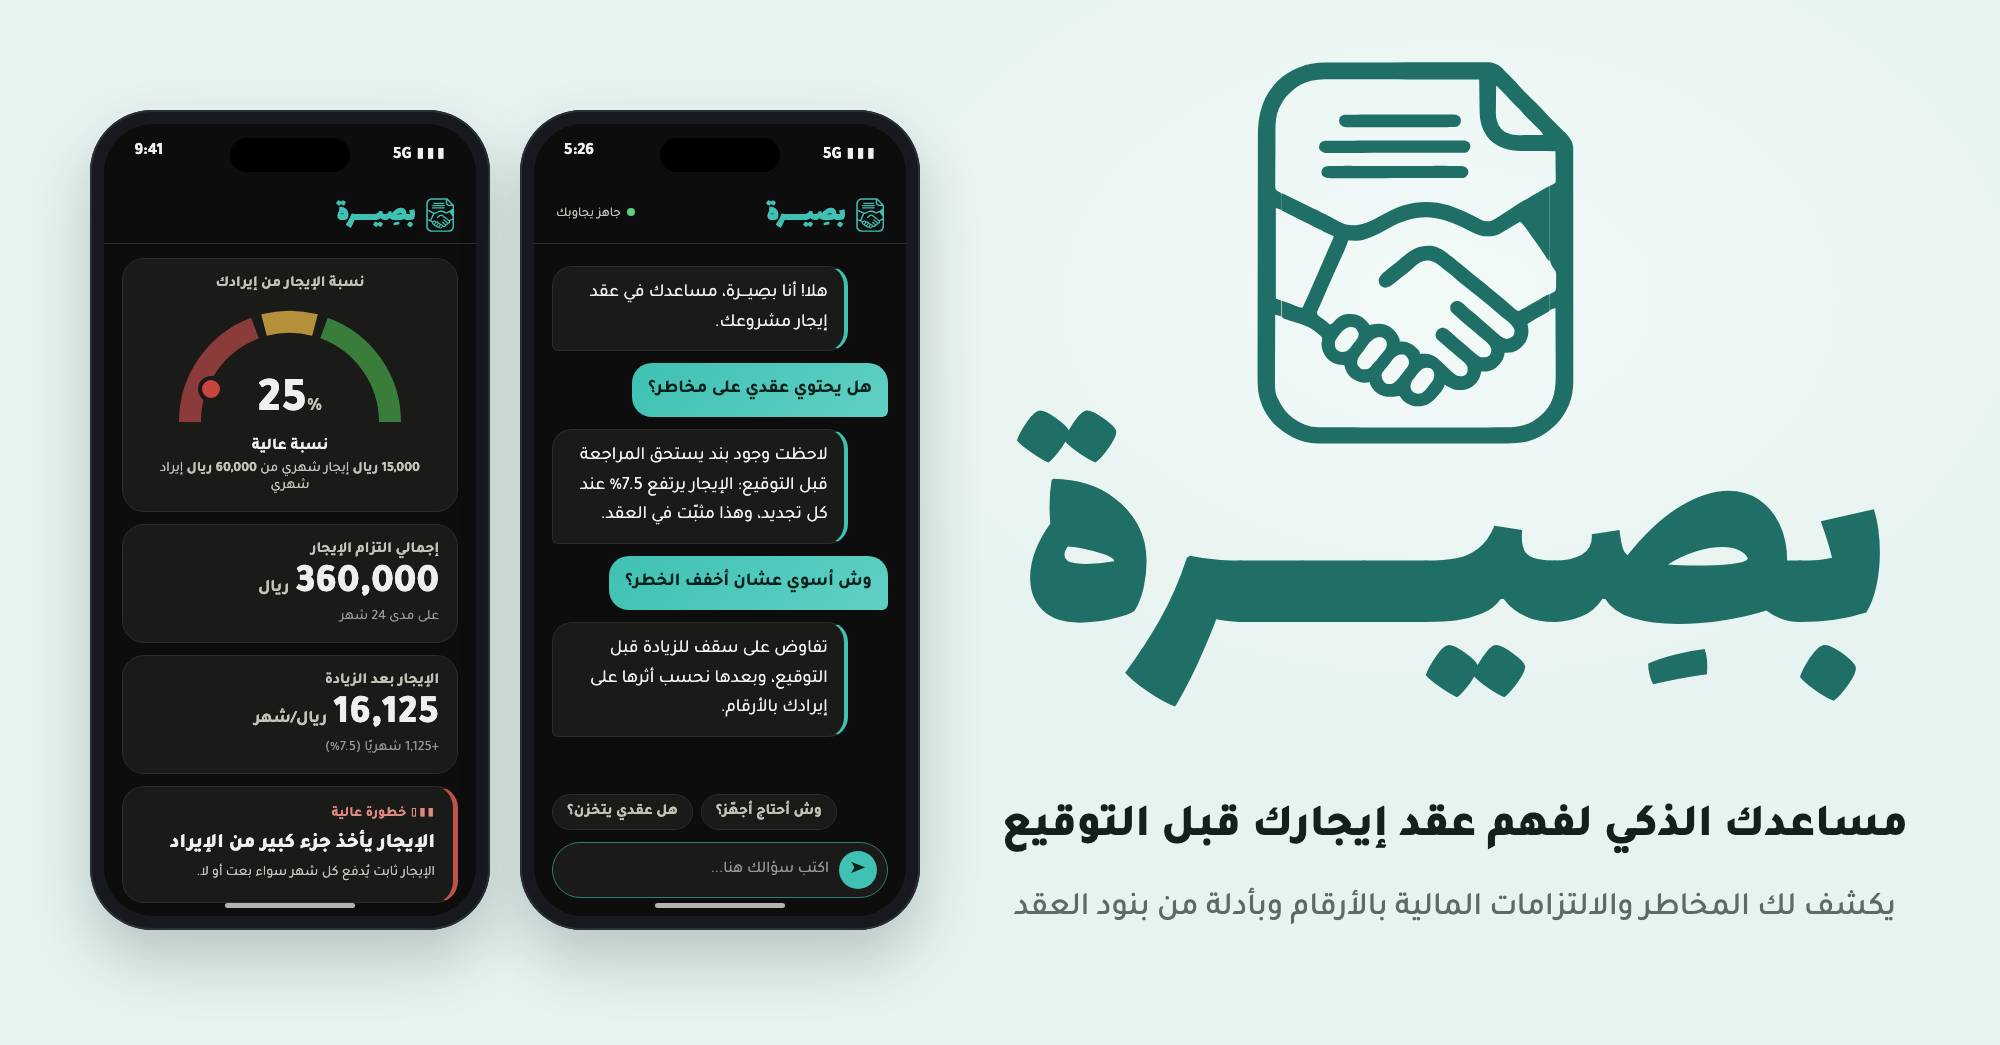
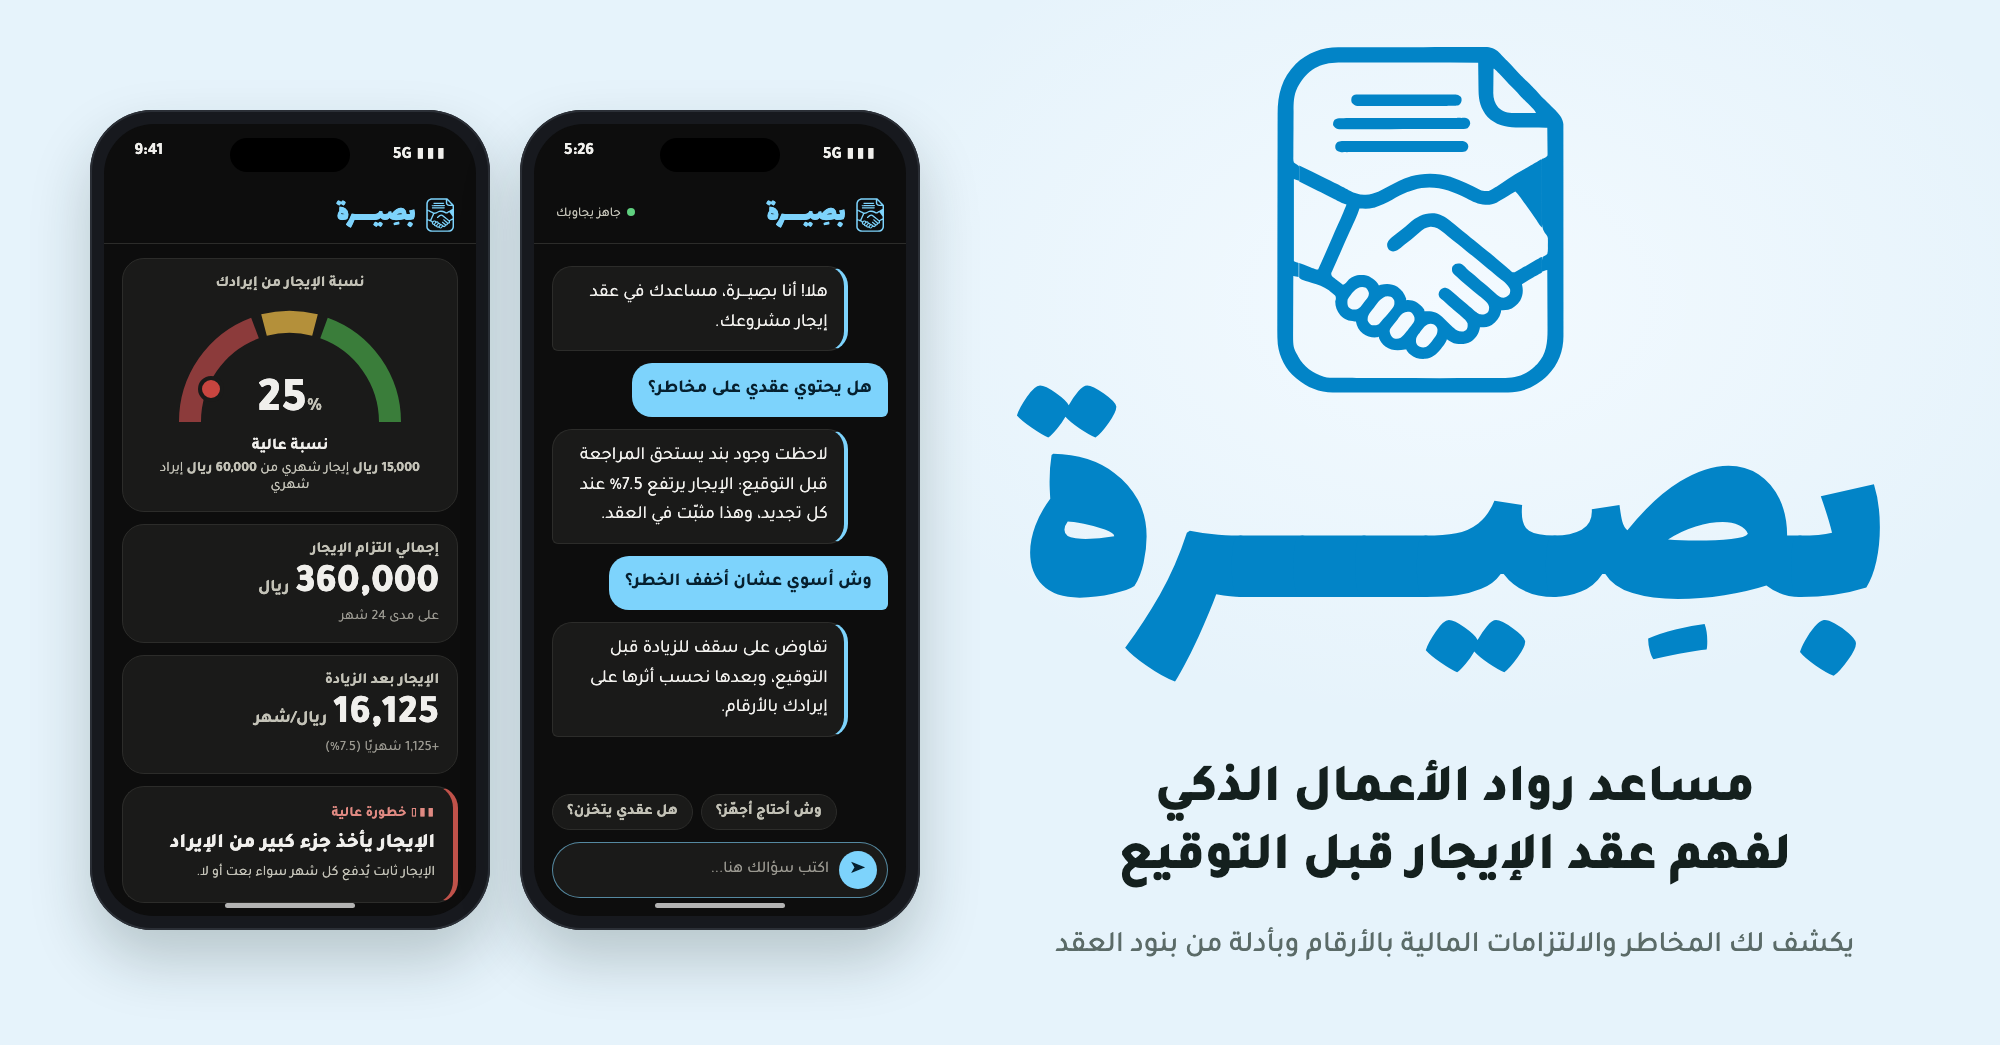
اعتماد اللون السماوي هوية للموقع (فاتح #0284c7 / غامق #7dd3fc) وتحديث البوستر

diff --git a/docs/poster/basira-poster.html b/docs/poster/basira-poster.html
@@ -3,17 +3,17 @@
 <title>بوستر بصِيـــرة</title>
 <link href="https://fonts.googleapis.com/css2?family=Tajawal:wght@400;500;700;800&family=Lalezar&display=swap" rel="stylesheet">
 <style>
-:root { --teal:#1f6f66; --ink:#14201e; --mint:#e7f3f0; --bg:#0d0d0d; --surface:#1a1a19; --surface2:#222221; --line:#2c2c2a; --ink-d:#f0efec; --ink2:#c3c2b7; --ink3:#9a9890; --brand:#3fc1b3; --onbrand:#06201d; }
+:root { --teal:#0284c7; --ink:#14201e; --mint:#e6f3fb; --glow:#f3faff; --bg:#0d0d0d; --surface:#1a1a19; --surface2:#222221; --line:#2c2c2a; --ink-d:#f0efec; --ink2:#c3c2b7; --ink3:#9a9890; --brand:#7dd3fc; --onbrand:#06202f; }
 * { box-sizing: border-box; margin:0; padding:0; }
 html, body { width: 2000px; height: 1045px; background: var(--mint); font-family: "Tajawal", sans-serif; overflow: hidden; }
-.poster { position: relative; width: 2000px; height: 1045px; background: radial-gradient(900px 600px at 1450px 300px, #f2faf8, transparent 70%), var(--mint); }
+.poster { position: relative; width: 2000px; height: 1045px; background: radial-gradient(900px 600px at 1450px 300px, var(--glow), transparent 70%), var(--mint); }
 
 /* ---- الجهة اليمنى: الهوية ---- */
-.logo { position:absolute; left: 1255px; top: 60px; width: 320px; height: auto; color: var(--teal); }
+.logo { position:absolute; left: 1275px; top: 45px; width: 290px; height: auto; color: var(--teal); }
 .logo-s { color: var(--brand); height: 34px; width: auto; }
-.word { position:absolute; right: 70px; left: 980px; top: 385px; text-align: center; font-family: "Lalezar", sans-serif; font-size: 330px; line-height: 1.05; color: var(--teal); letter-spacing: 0; }
-.tag { position:absolute; right: 70px; left: 980px; top: 800px; text-align:center; white-space: nowrap; font-weight: 800; font-size: 45px; color: var(--ink); line-height: 1.3; }
-.sub { position:absolute; right: 70px; left: 980px; top: 885px; text-align:center; white-space: nowrap; font-weight: 500; font-size: 32px; color: #5b6b68; line-height: 1.5; }
+.word { position:absolute; right: 70px; left: 980px; top: 360px; text-align: center; font-family: "Lalezar", sans-serif; font-size: 330px; line-height: 1.05; color: var(--teal); letter-spacing: 0; }
+.tag { position:absolute; right: 70px; left: 980px; top: 760px; text-align:center; font-weight: 800; font-size: 52px; color: var(--ink); line-height: 1.3; }
+.sub { position:absolute; right: 70px; left: 980px; top: 925px; text-align:center; white-space: nowrap; font-weight: 500; font-size: 29px; color: #5b6b68; line-height: 1.5; }
 
 /* ---- الجوالات ---- */
 .phone { position:absolute; width: 400px; height: 820px; border-radius: 62px; background: #17191e; padding: 14px; box-shadow: 0 30px 60px rgba(20,40,38,.22), 0 0 0 2px #2b2f36 inset; }
@@ -43,10 +43,10 @@ html, body { width: 2000px; height: 1045px; background: var(--mint); font-family
 .msgs { flex:1; display:flex; flex-direction: column; gap: 12px; padding-top: 8px; }
 .m { max-width: 88%; padding: 12px 16px; border-radius: 20px; font-size: 18px; line-height: 1.65; }
 .m.bot { align-self: flex-end; background: var(--surface); border: 1px solid var(--line); border-inline-start: 4px solid var(--brand); border-end-end-radius: 6px; }
-.m.user { align-self: flex-start; background: linear-gradient(135deg, #3fc1b3, #5fd0c3); color: var(--onbrand); font-weight: 700; border-end-start-radius: 6px; }
+.m.user { align-self: flex-start; background: var(--brand); color: var(--onbrand); font-weight: 700; border-end-start-radius: 6px; }
 .chips { display:flex; gap:8px; flex-wrap: wrap; justify-content: flex-end; }
 .chips span { border: 1px solid var(--line); background: var(--surface); border-radius: 999px; padding: 8px 14px; font-size: 15px; font-weight: 700; color: var(--ink2); }
-.comp { display:flex; align-items:center; gap: 10px; border: 1.5px solid #2f7f77; border-radius: 999px; background: var(--surface); padding: 8px 10px 8px 14px; }
+.comp { display:flex; align-items:center; gap: 10px; border: 1.5px solid color-mix(in srgb, var(--brand) 60%, transparent); border-radius: 999px; background: var(--surface); padding: 8px 10px 8px 14px; }
 .comp .in { flex:1; font-size: 16px; color: var(--ink3); }
 .comp .snd { width: 38px; height: 38px; border-radius: 50%; background: var(--brand); display:grid; place-items:center; color: var(--onbrand); }
 .dot { width:8px; height:8px; border-radius:50%; background:#5fd07f; display:inline-block; margin-inline-end:6px; }
@@ -75,7 +75,7 @@ html, body { width: 2000px; height: 1045px; background: var(--mint); font-family
 </svg>
 
   <div class="word">بصِيـــرة</div>
-  <div class="tag">مساعدك الذكي لفهم عقد إيجارك قبل التوقيع</div>
+  <div class="tag">مساعد رواد الأعمال الذكي<br>لفهم عقد الإيجار قبل التوقيع</div>
   <div class="sub">يكشف لك المخاطر والالتزامات المالية بالأرقام وبأدلة من بنود العقد</div>
 
   <!-- جوال 1: التقرير -->

diff --git a/app/static/styles.css b/app/static/styles.css
@@ -1,6 +1,6 @@
 /* ============ بصيرة: نظام التصميم ============ */
 /* ===== لوحة الألوان: Sample 1 (الافتراضية) =====
-   هوية: أخضر مزرق (teal) #0e6b63 على أسطح محايدة دافئة. ألوان الحالة من دليل الرسوم: أحمر #d03b3b، كهرماني #fab219، أخضر #0ca30c.
+   هوية: أزرق سماوي (sky) #0284c7 على أسطح محايدة دافئة. ألوان الحالة من دليل الرسوم: أحمر #d03b3b، كهرماني #fab219، أخضر #0ca30c.
    عشان نضيف لوحات ثانية بدون ما نلمس هذي: نكتب كتلة [data-palette="sample-2"] تعيد تعريف نفس المتغيرات (--brand، --surface...)
    ونغيّر السمة data-palette على وسم html. */
 :root, :root[data-palette="sample-1"] {
@@ -9,7 +9,7 @@
   --bg: #f9f9f7; --surface: #fcfcfb; --surface-2: #f2f2ee; --ink: #0b0b0b; --ink-2: #52514e; --ink-3: #6f6d68;
   --line: #e1e0d9; --line-strong: #c3c2b7;
   /* هوية بصيرة */
-  --brand: #0e6b63; --brand-600: #0a554f; --brand-050: #e4f2f0; --on-brand: #ffffff;
+  --brand: #0284c7; --brand-600: #0369a1; --brand-050: #e0f2fe; --on-brand: #ffffff;
   /* ألوان الحالة (ثابتة، تُعرض دايماً مع أيقونة وكلمة) */
   --crit: #d03b3b; --warn: #fab219; --good: #0ca30c;
   --shadow: 0 1px 2px rgba(11,11,11,.05), 0 10px 30px rgba(11,11,11,.06);
@@ -20,7 +20,7 @@
   :root:not([data-theme="light"]) {
     --bg: #0d0d0d; --surface: #1a1a19; --surface-2: #222221; --ink: #f0efec; --ink-2: #c3c2b7; --ink-3: #9a9890;
     --line: #2c2c2a; --line-strong: #383835;
-    --brand: #3fc1b3; --brand-600: #5fd0c3; --brand-050: #12302d; --on-brand: #06201d;
+    --brand: #7dd3fc; --brand-600: #bae6fd; --brand-050: #0c2a3d; --on-brand: #06202f;
     --shadow: 0 1px 2px rgba(0,0,0,.5), 0 10px 30px rgba(0,0,0,.4);
   }
 }
@@ -28,7 +28,7 @@
 :root[data-theme="dark"] {
   --bg: #0d0d0d; --surface: #1a1a19; --surface-2: #222221; --ink: #f0efec; --ink-2: #c3c2b7; --ink-3: #9a9890;
   --line: #2c2c2a; --line-strong: #383835;
-  --brand: #3fc1b3; --brand-600: #5fd0c3; --brand-050: #12302d; --on-brand: #06201d;
+  --brand: #7dd3fc; --brand-600: #bae6fd; --brand-050: #0c2a3d; --on-brand: #06202f;
   --shadow: 0 1px 2px rgba(0,0,0,.5), 0 10px 30px rgba(0,0,0,.4);
 }
 * { box-sizing: border-box; }

diff --git a/docs/poster/build.py b/docs/poster/build.py
@@ -10,17 +10,17 @@ html = """<!doctype html>
 <title>بوستر بصِيـــرة</title>
 <link href="https://fonts.googleapis.com/css2?family=Tajawal:wght@400;500;700;800&family=Lalezar&display=swap" rel="stylesheet">
 <style>
-:root { --teal:#1f6f66; --ink:#14201e; --mint:#e7f3f0; --bg:#0d0d0d; --surface:#1a1a19; --surface2:#222221; --line:#2c2c2a; --ink-d:#f0efec; --ink2:#c3c2b7; --ink3:#9a9890; --brand:#3fc1b3; --onbrand:#06201d; }
+:root { --teal:#1f6f66; --ink:#14201e; --mint:#e7f3f0; --glow:#f2faf8; --bg:#0d0d0d; --surface:#1a1a19; --surface2:#222221; --line:#2c2c2a; --ink-d:#f0efec; --ink2:#c3c2b7; --ink3:#9a9890; --brand:#3fc1b3; --onbrand:#06201d; }
 * { box-sizing: border-box; margin:0; padding:0; }
 html, body { width: 2000px; height: 1045px; background: var(--mint); font-family: "Tajawal", sans-serif; overflow: hidden; }
-.poster { position: relative; width: 2000px; height: 1045px; background: radial-gradient(900px 600px at 1450px 300px, #f2faf8, transparent 70%), var(--mint); }
+.poster { position: relative; width: 2000px; height: 1045px; background: radial-gradient(900px 600px at 1450px 300px, var(--glow), transparent 70%), var(--mint); }
 
 /* ---- الجهة اليمنى: الهوية ---- */
-.logo { position:absolute; left: 1255px; top: 60px; width: 320px; height: auto; color: var(--teal); }
+.logo { position:absolute; left: 1275px; top: 45px; width: 290px; height: auto; color: var(--teal); }
 .logo-s { color: var(--brand); height: 34px; width: auto; }
-.word { position:absolute; right: 70px; left: 980px; top: 385px; text-align: center; font-family: "Lalezar", sans-serif; font-size: 330px; line-height: 1.05; color: var(--teal); letter-spacing: 0; }
-.tag { position:absolute; right: 70px; left: 980px; top: 800px; text-align:center; white-space: nowrap; font-weight: 800; font-size: 45px; color: var(--ink); line-height: 1.3; }
-.sub { position:absolute; right: 70px; left: 980px; top: 885px; text-align:center; white-space: nowrap; font-weight: 500; font-size: 32px; color: #5b6b68; line-height: 1.5; }
+.word { position:absolute; right: 70px; left: 980px; top: 360px; text-align: center; font-family: "Lalezar", sans-serif; font-size: 330px; line-height: 1.05; color: var(--teal); letter-spacing: 0; }
+.tag { position:absolute; right: 70px; left: 980px; top: 760px; text-align:center; font-weight: 800; font-size: 52px; color: var(--ink); line-height: 1.3; }
+.sub { position:absolute; right: 70px; left: 980px; top: 925px; text-align:center; white-space: nowrap; font-weight: 500; font-size: 29px; color: #5b6b68; line-height: 1.5; }
 
 /* ---- الجوالات ---- */
 .phone { position:absolute; width: 400px; height: 820px; border-radius: 62px; background: #17191e; padding: 14px; box-shadow: 0 30px 60px rgba(20,40,38,.22), 0 0 0 2px #2b2f36 inset; }
@@ -50,10 +50,10 @@ html, body { width: 2000px; height: 1045px; background: var(--mint); font-family
 .msgs { flex:1; display:flex; flex-direction: column; gap: 12px; padding-top: 8px; }
 .m { max-width: 88%; padding: 12px 16px; border-radius: 20px; font-size: 18px; line-height: 1.65; }
 .m.bot { align-self: flex-end; background: var(--surface); border: 1px solid var(--line); border-inline-start: 4px solid var(--brand); border-end-end-radius: 6px; }
-.m.user { align-self: flex-start; background: linear-gradient(135deg, #3fc1b3, #5fd0c3); color: var(--onbrand); font-weight: 700; border-end-start-radius: 6px; }
+.m.user { align-self: flex-start; background: var(--brand); color: var(--onbrand); font-weight: 700; border-end-start-radius: 6px; }
 .chips { display:flex; gap:8px; flex-wrap: wrap; justify-content: flex-end; }
 .chips span { border: 1px solid var(--line); background: var(--surface); border-radius: 999px; padding: 8px 14px; font-size: 15px; font-weight: 700; color: var(--ink2); }
-.comp { display:flex; align-items:center; gap: 10px; border: 1.5px solid #2f7f77; border-radius: 999px; background: var(--surface); padding: 8px 10px 8px 14px; }
+.comp { display:flex; align-items:center; gap: 10px; border: 1.5px solid color-mix(in srgb, var(--brand) 60%, transparent); border-radius: 999px; background: var(--surface); padding: 8px 10px 8px 14px; }
 .comp .in { flex:1; font-size: 16px; color: var(--ink3); }
 .comp .snd { width: 38px; height: 38px; border-radius: 50%; background: var(--brand); display:grid; place-items:center; color: var(--onbrand); }
 .dot { width:8px; height:8px; border-radius:50%; background:#5fd07f; display:inline-block; margin-inline-end:6px; }
@@ -64,7 +64,7 @@ html, body { width: 2000px; height: 1045px; background: var(--mint); font-family
 
   __LOGO__
   <div class="word">بصِيـــرة</div>
-  <div class="tag">مساعدك الذكي لفهم عقد إيجارك قبل التوقيع</div>
+  <div class="tag">مساعد رواد الأعمال الذكي<br>لفهم عقد الإيجار قبل التوقيع</div>
   <div class="sub">يكشف لك المخاطر والالتزامات المالية بالأرقام وبأدلة من بنود العقد</div>
 
   <!-- جوال 1: التقرير -->
@@ -118,5 +118,13 @@ html, body { width: 2000px; height: 1045px; background: var(--mint); font-family
 </div></body></html>
 """
 html = html.replace("__LOGO__", logo).replace("__LOGO_S__", logo_small)
-(root / "docs/poster/basira-poster.html").write_text(html)
+PALETTES = {
+    # السماوي المعتمد: نفس ألوان الموقع (فاتح: #0284c7 / غامق: #7dd3fc)
+    "": dict(teal="#0284c7", mint="#e6f3fb", glow="#f3faff", brand="#7dd3fc", onbrand="#06202f"),
+}
+for name, c in PALETTES.items():
+    h = html
+    for k, v in c.items():
+        h = re.sub(r"(--%s:)#[0-9a-fA-F]{6}" % k, lambda m: m.group(1) + v, h, count=1)
+    (root / "docs/poster/basira-poster.html").write_text(h)
 print("ok")
